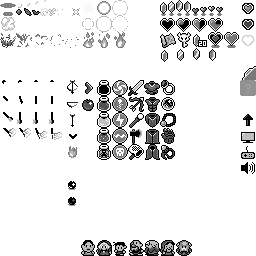
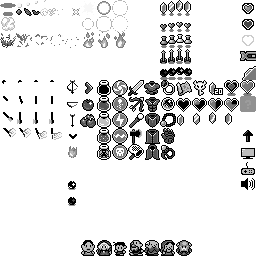
repacked main sheet in prep for additional consumable items / worldUI sprites. added magic meter sprite to mainsheet. added group of bombs (item) sprite to main sheet. added arrows, bombs, and magic pot consumables to mainsheet. now its time to update the codebase to reflect the changes made to the 

Changed region(s): [[0.625, 0.0, 1.0, 0.75], [0.9375, 0.1875, 1.0, 0.25], [0.3125, 0.4375, 0.375, 0.5]]

diff --git a/DungeonRun/Classes/ScreenDialog.cs b/DungeonRun/Classes/ScreenDialog.cs
@@ -34,7 +34,8 @@ namespace DungeonRun
 
             //here is where we could check to see where in the story the hero is
             //then set the dialog screen accordingly
-            dialog = "testing the dialog screen.";
+            dialog = "i'm the game's guide. later on, i'll tell the hero the story.\n";
+            dialog += "and i'll comment on his progress beating dungeons.";
             //if (speaker.type == ObjType.VendorStory) { }
             //we'd need to track what dungeons that hero has beaten
             //this way the story vendor could comment on the hero's progress
